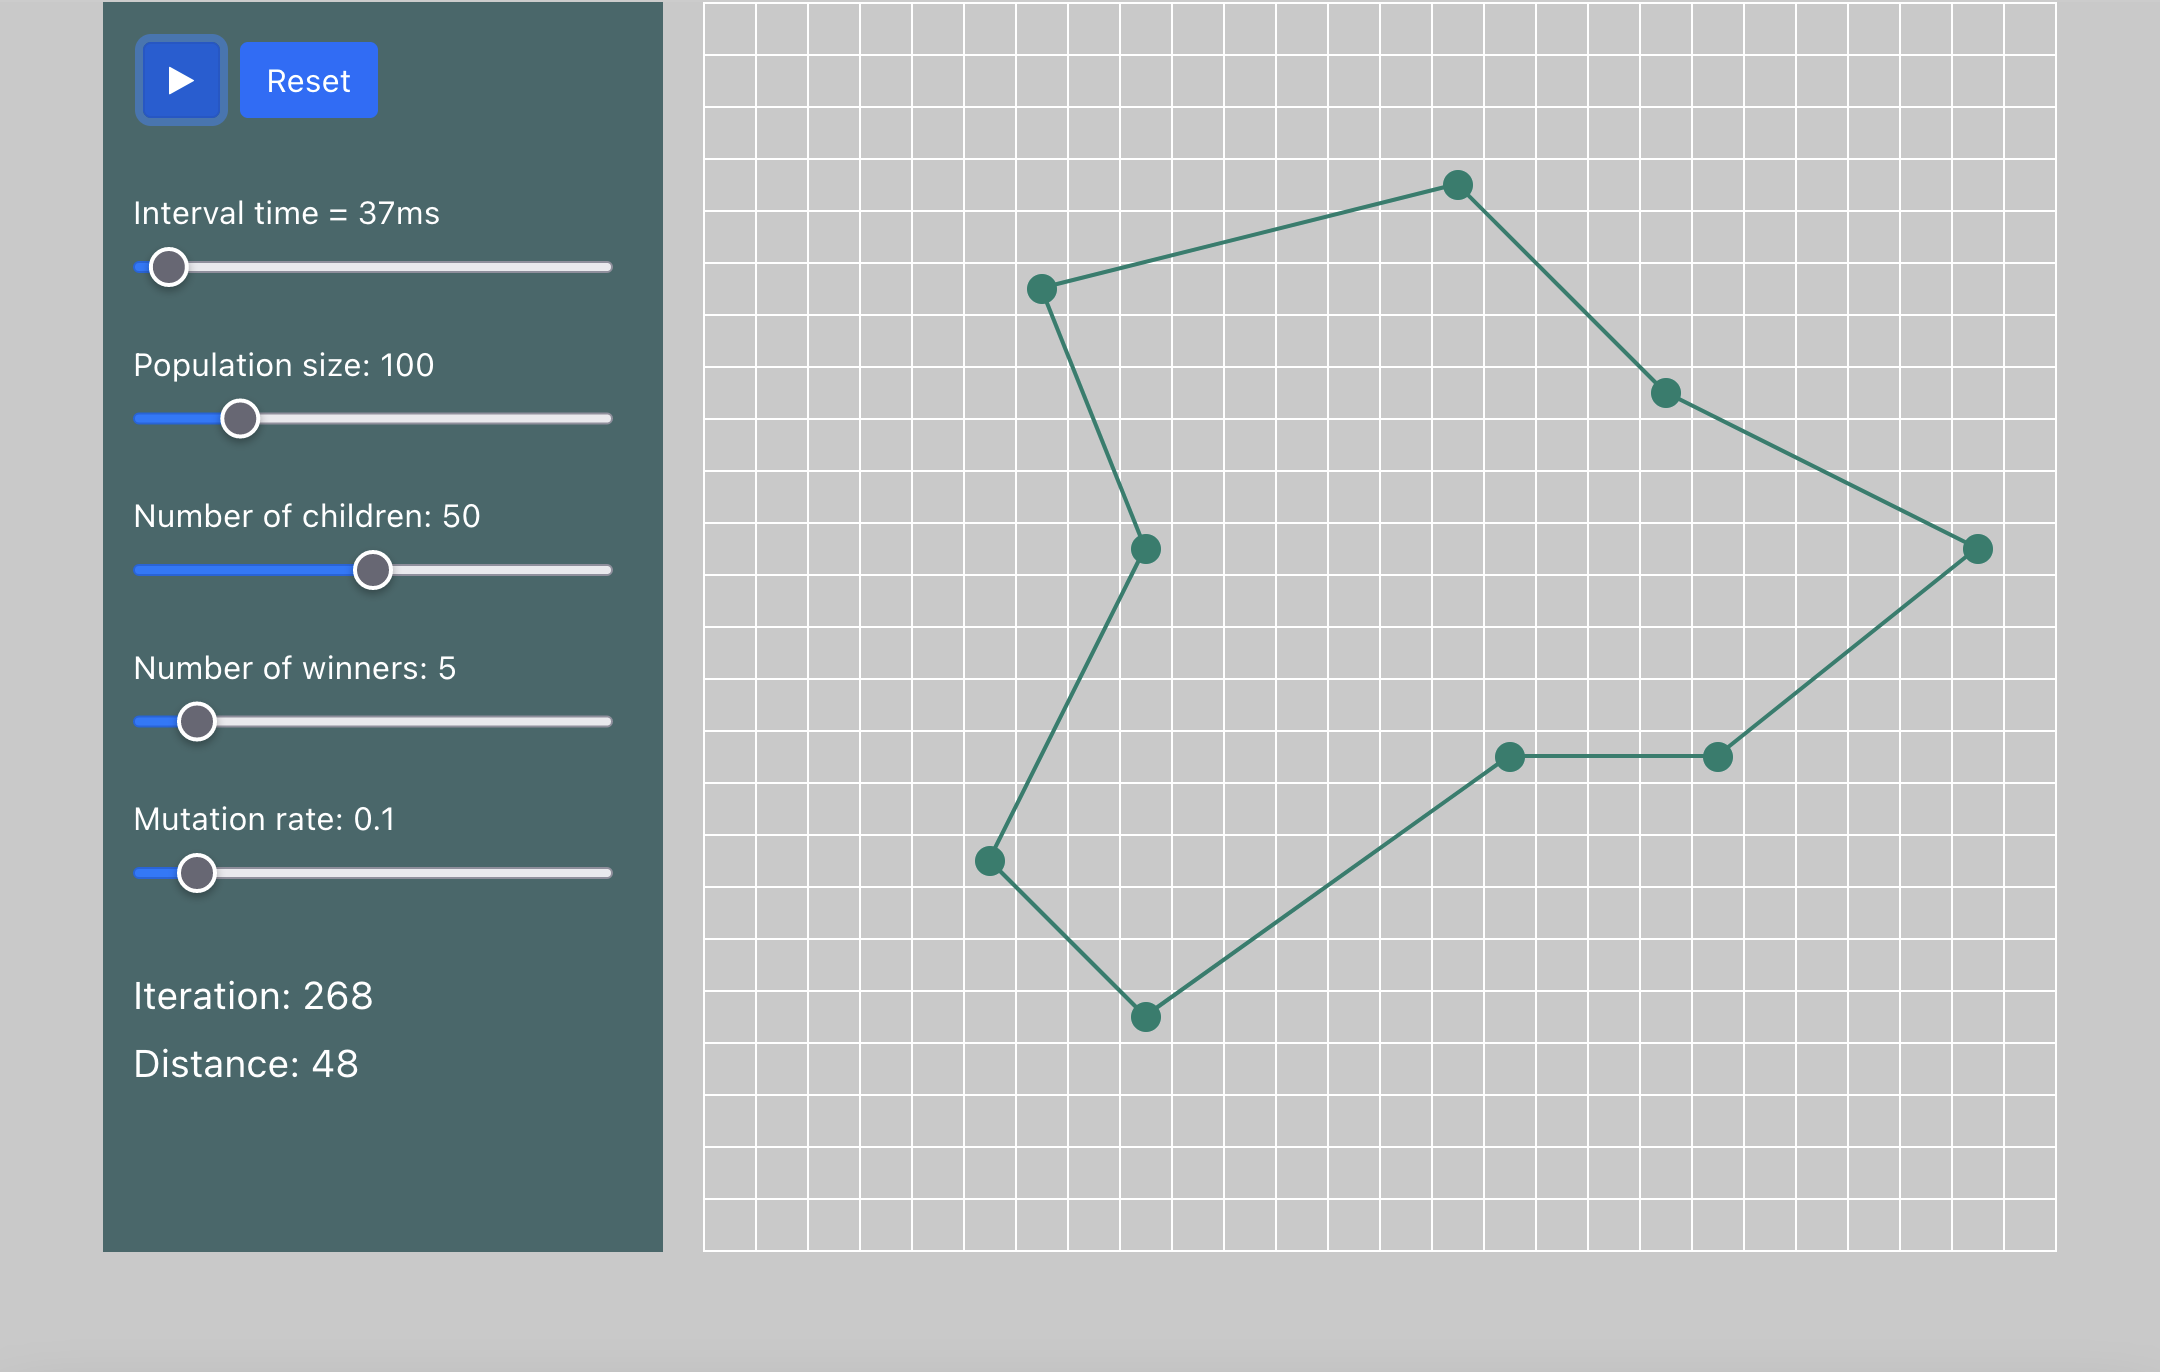
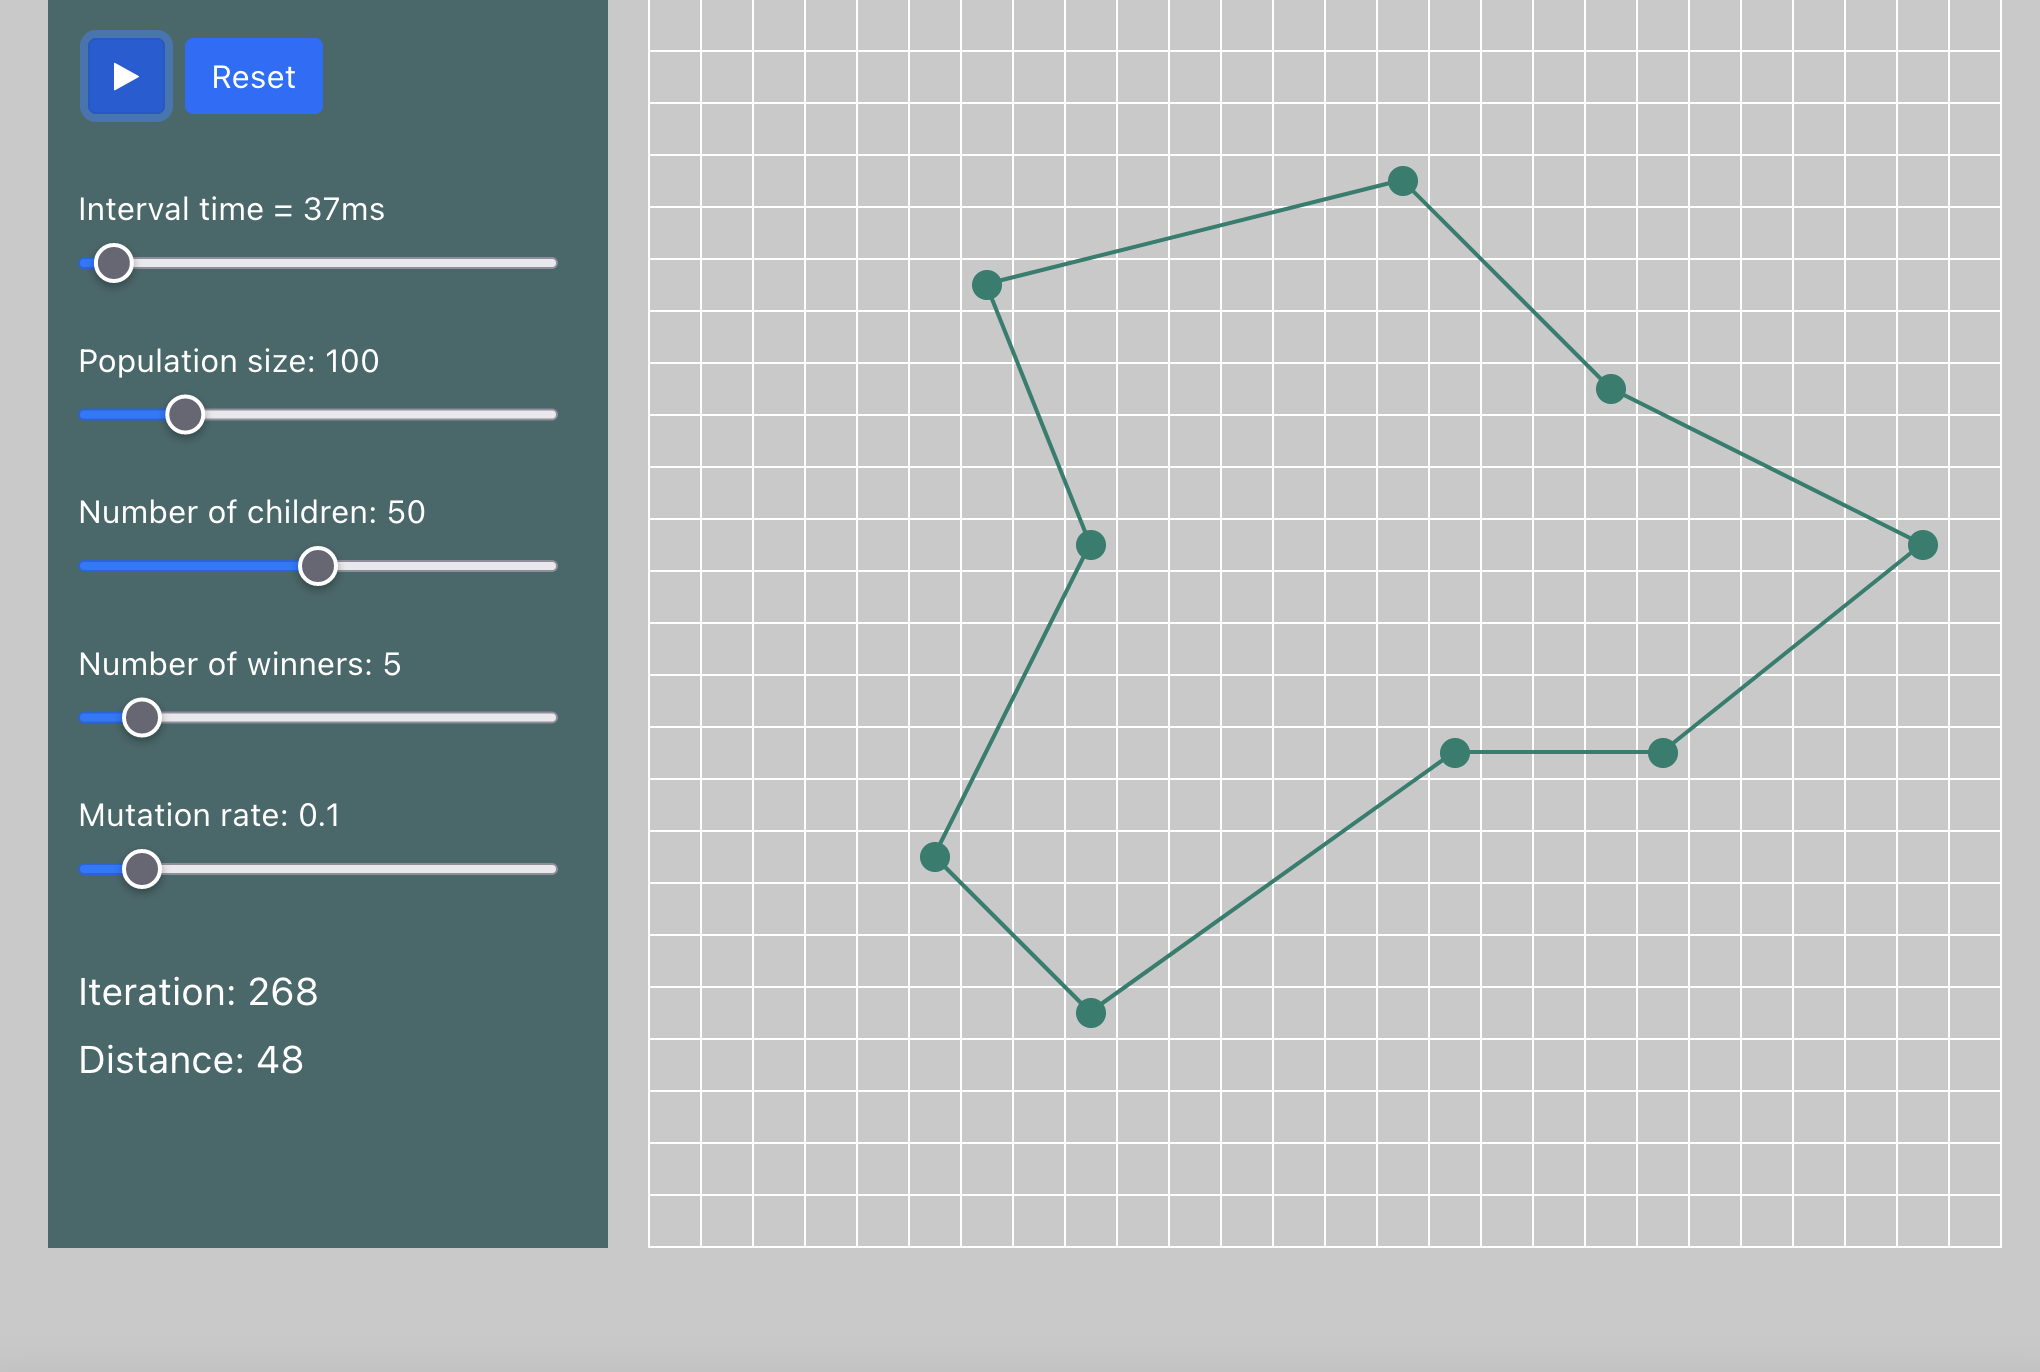
fixed links

Changed region(s): [[0.0, 0.0, 0.9574, 0.9184]]

diff --git a/index.html b/index.html
@@ -168,7 +168,13 @@
                 <div class="caption" id="caption2"></div>
               </div>
 
-              <h3>Doodle Recognition</h3>
+              <h3>
+                <a
+                  href="http://doodle-recognition.s3-website.eu-west-2.amazonaws.com/"
+                  target="_blank"
+                  >Doodle Recognition</a
+                >
+              </h3>
               <p>
                 <i> Python, PyTorch, ReactJS, ONNX </i>
               </p>
@@ -181,7 +187,7 @@
               </p>
               <a
                 class="github-button"
-                href="https://github.com/grahamross12/ode-solver"
+                href="https://github.com/grahamross12/doodle-recognition"
                 target="_blank"
                 >Github</a
               >
@@ -194,7 +200,7 @@
                 ><img
                   class="myImg"
                   id="myImg3"
-                  src="images/genetic-algorithm4.png"
+                  src="images/genetic-algorithm.png"
                   alt="Genetic Algorithm Visualiser"
               /></a>
 
@@ -211,7 +217,7 @@
 
               <h3>
                 <a
-                  href="http://news-website-graham.herokuapp.com/"
+                  href="https://main.d3obytw01esmah.amplifyapp.com/"
                   target="_blank"
                   >Genetic Algorithm Visualiser</a
                 >
@@ -227,7 +233,7 @@
               </p>
               <a
                 class="github-button"
-                href="https://github.com/grahamross12/news-website"
+                href="https://github.com/grahamross12/genetic-algorithm-visualiser"
                 target="_blank"
                 >Github</a
               >
